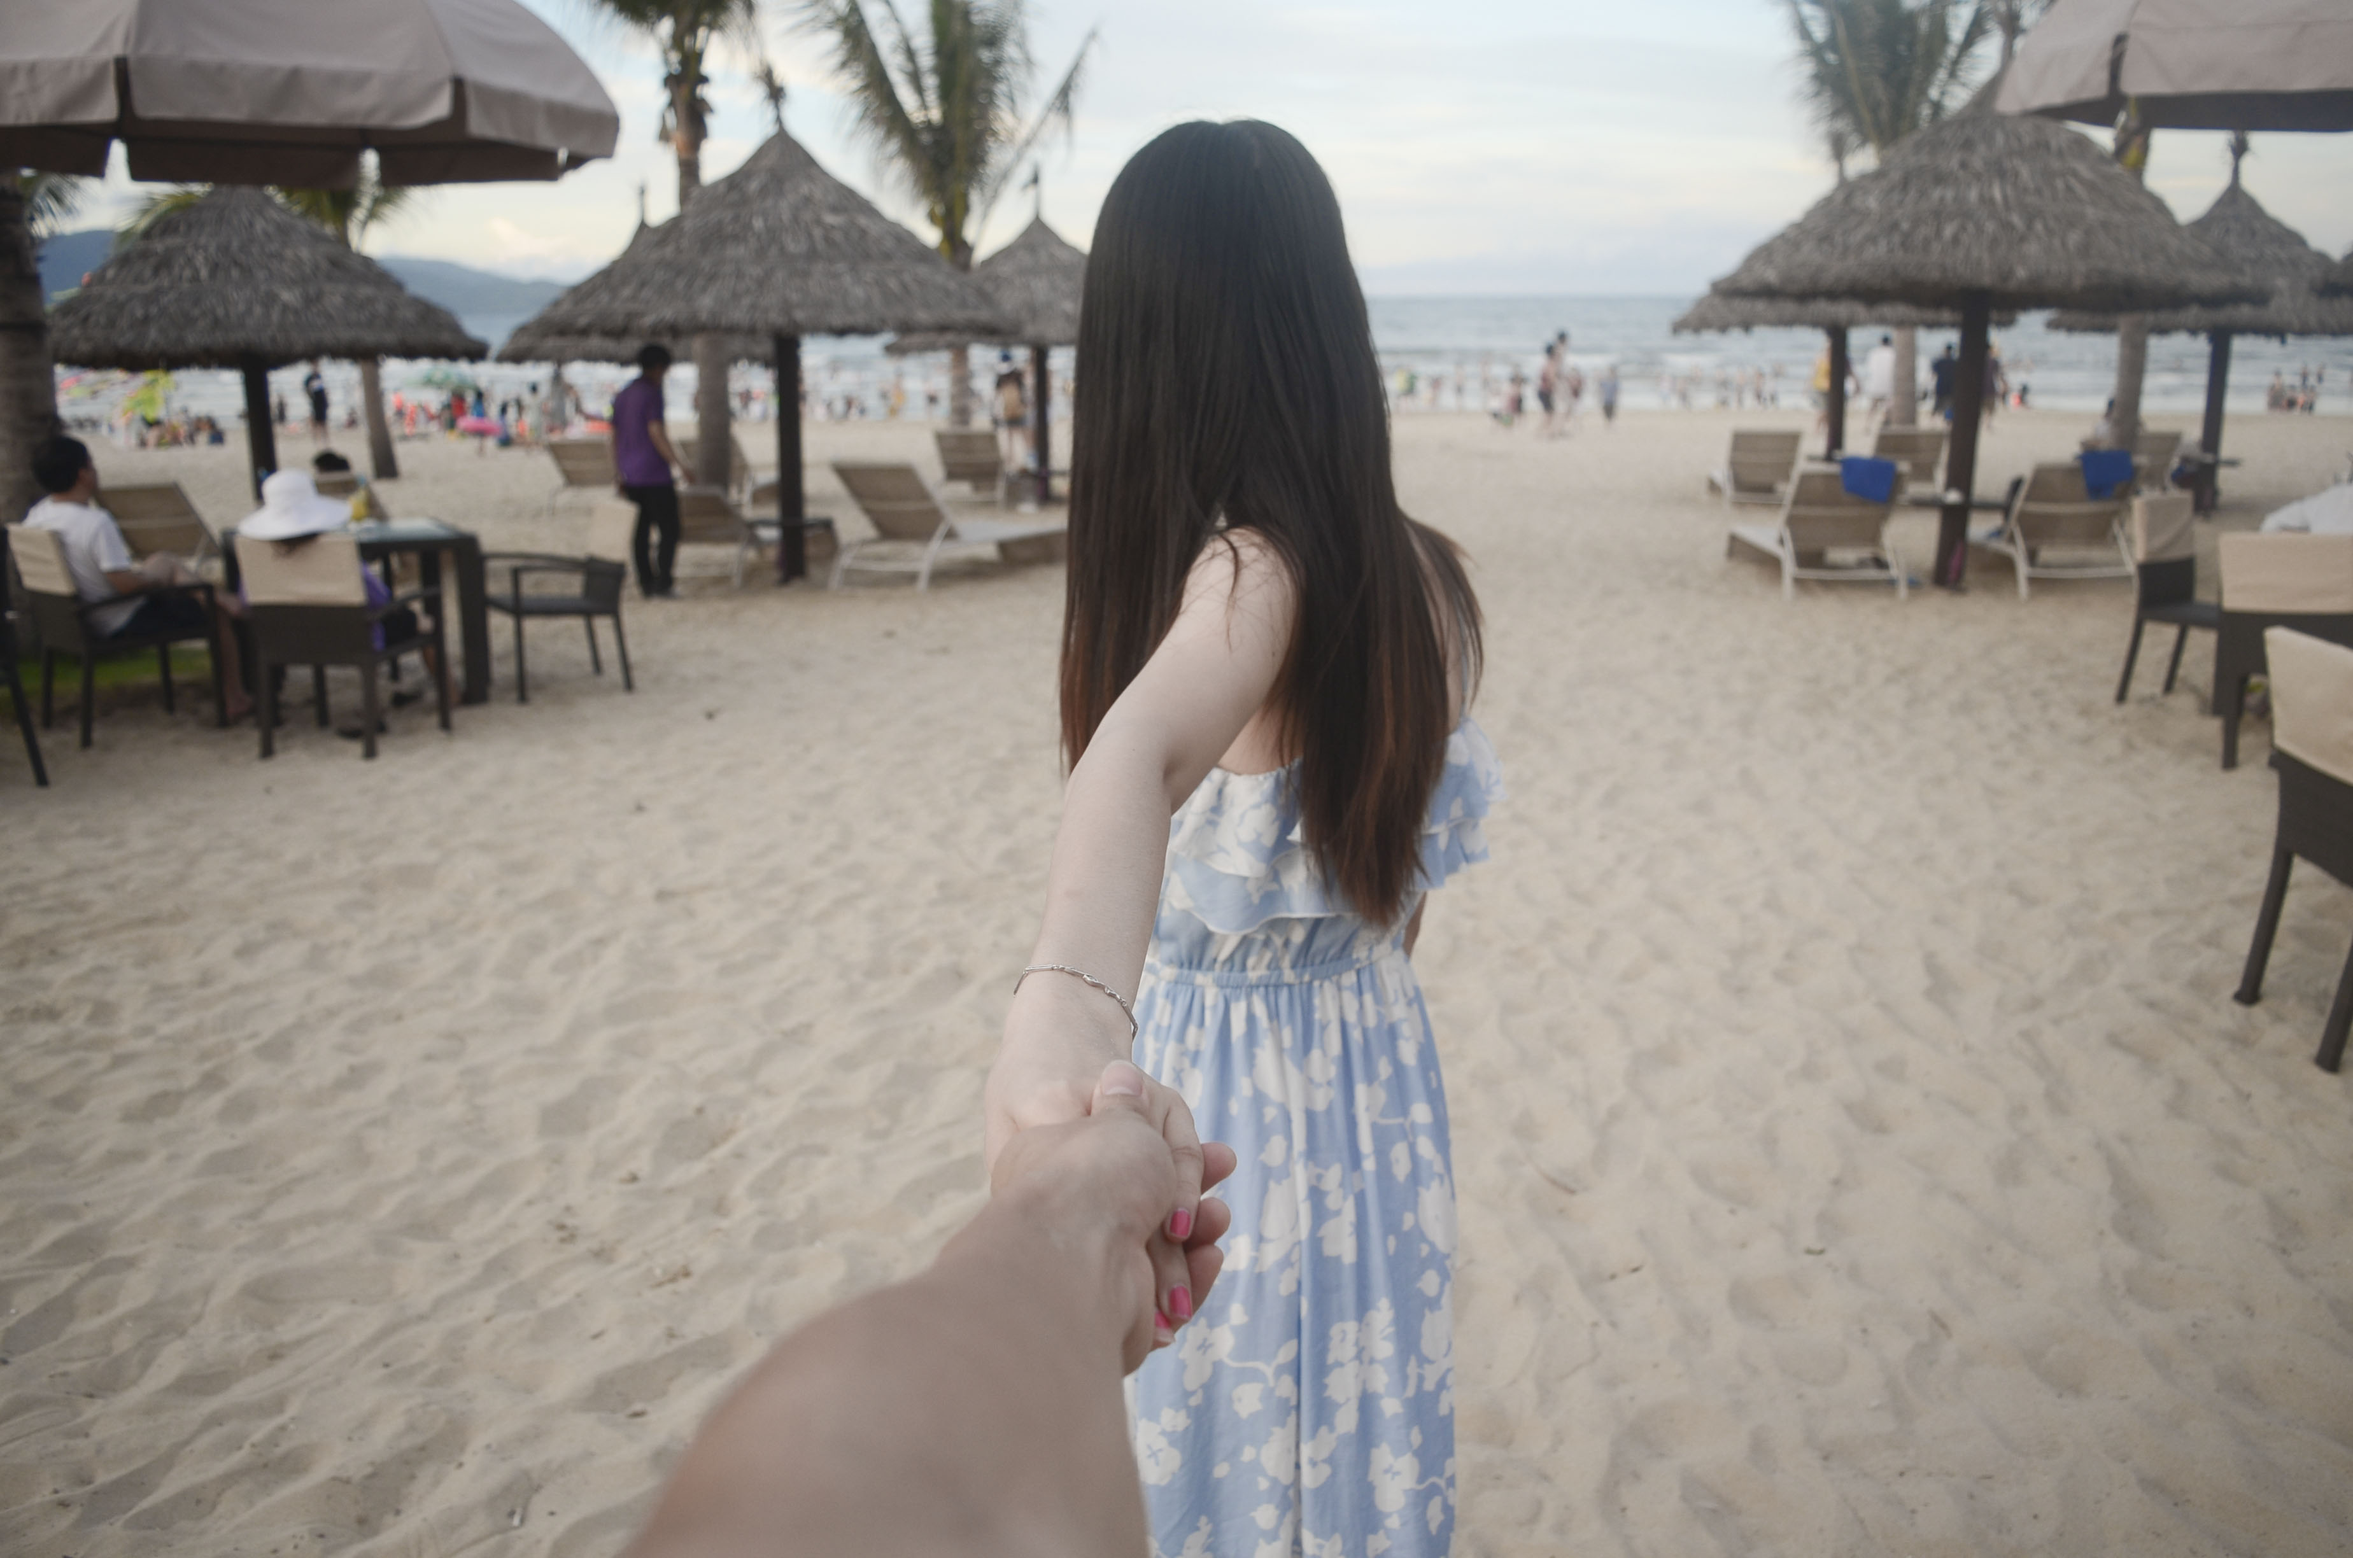
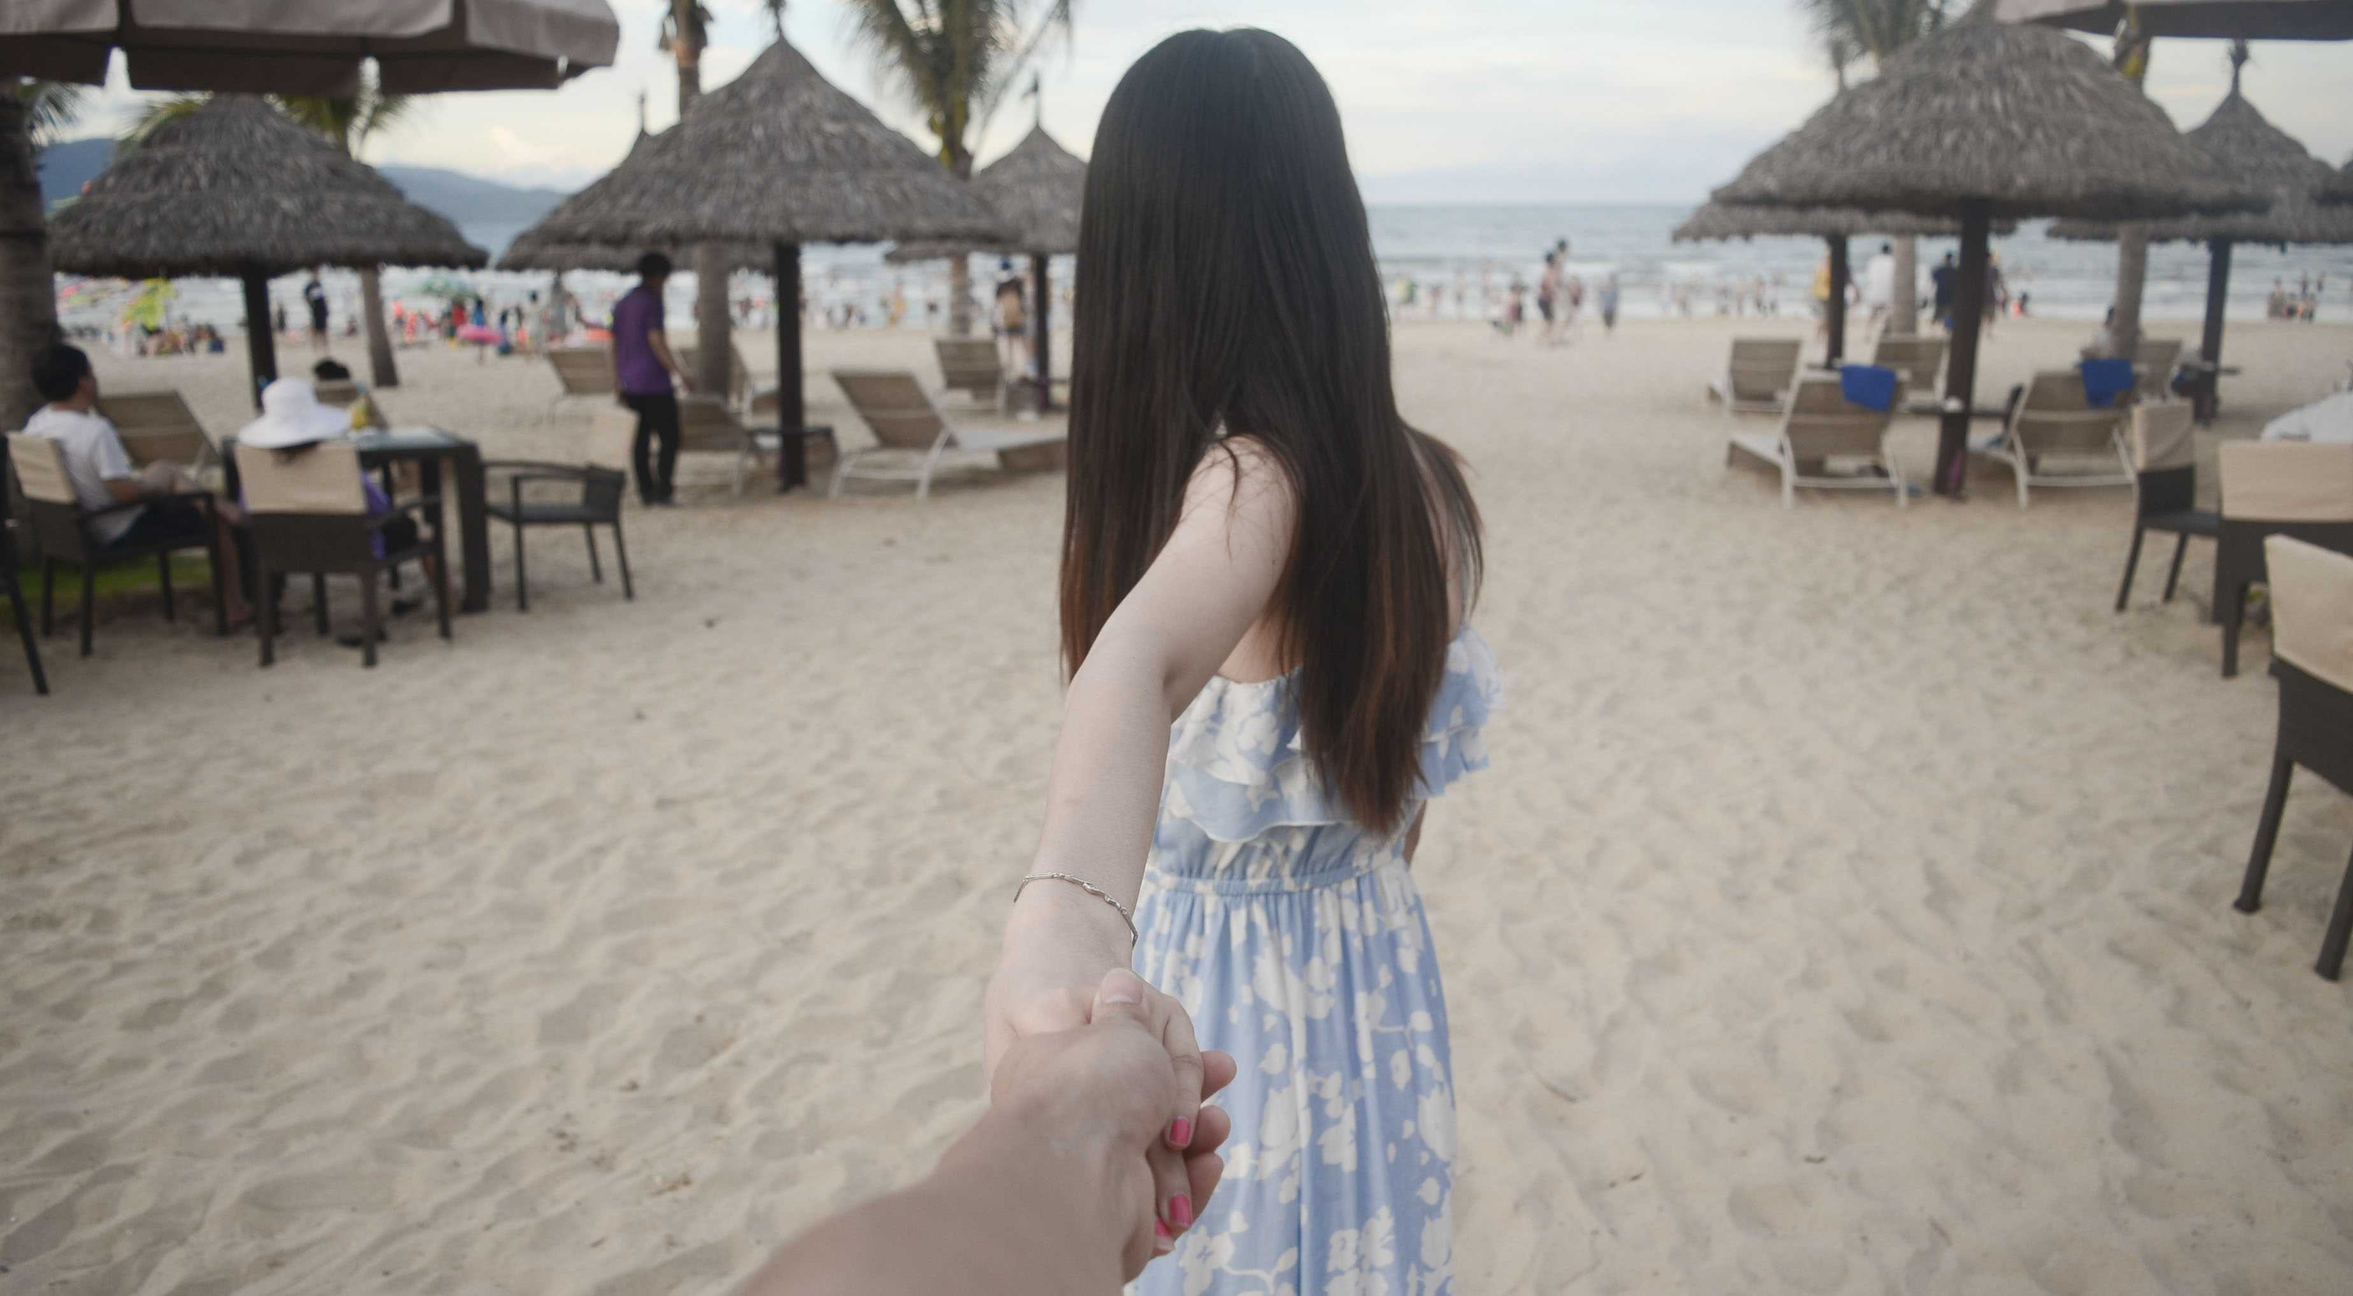
fix:减少图片大小，减少白屏时间

diff --git a/index.html b/index.html
@@ -3,7 +3,7 @@ layout: default
 title: YXP的博客
 description: YXP的博客
 ---
-<header class="main-page-header" style="background-image: url('{{ site.baseurl }}/images/main.JPG')">
+<header class="main-page-header" style="background-image: url('{{ site.baseurl }}/images/main.jpg')">
   <div class="main-container">
     <div class="main-page-title">
       <img class="main-page-headimg" src="{{ site.baseurl }}/images/head.jpg" alt="yxp头像" />
